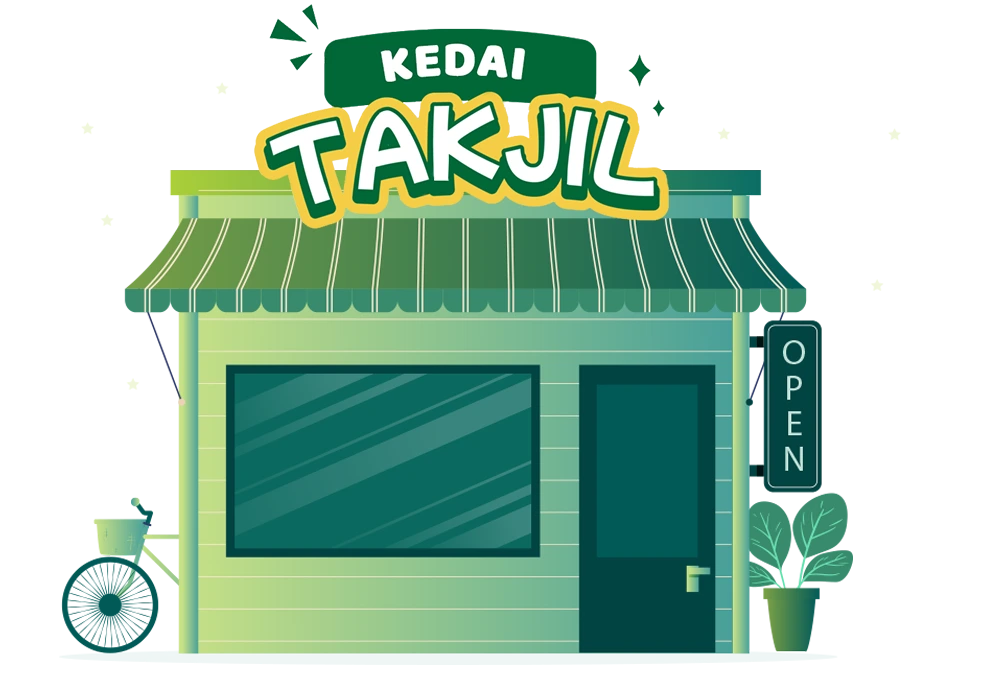
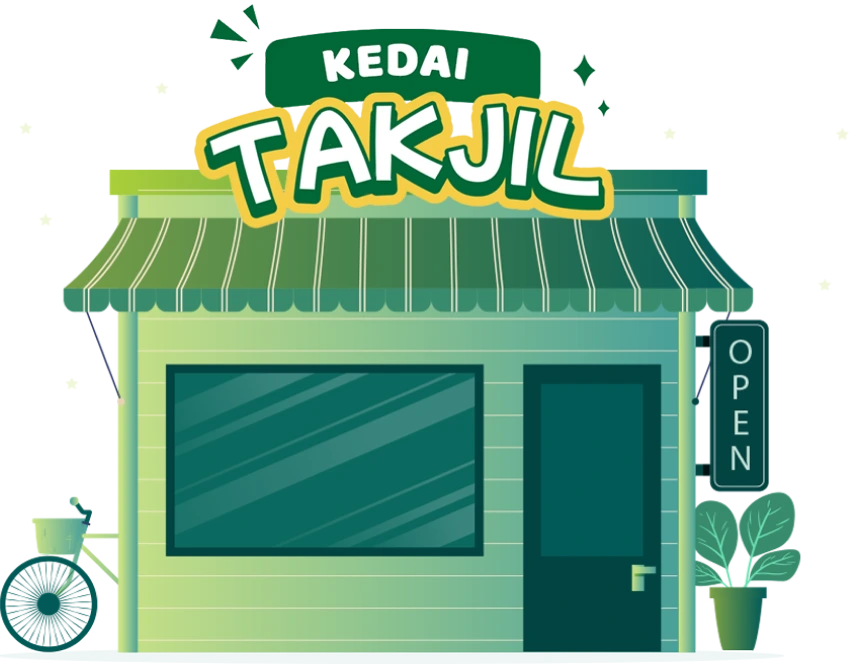
Add ShopBackground and ContactBackground components; update AboutSection and ContactSection for improved layout and functionality

diff --git a/src/sections/ContactSection.jsx b/src/sections/ContactSection.jsx
@@ -1,5 +1,4 @@
 import SectionTitle from "../components/home/SectionTitle";
-import shopImg from "../assets/images/home/contact_person_img.webp";
 import emailIcon from "../assets/icons/home/contact_email_icon.webp";
 import whatsappIcon from "../assets/icons/home/contact_whatsapp_icon.webp";
 import instagramIcon from "../assets/icons/home/contact_instagram_icon.webp";
@@ -8,6 +7,7 @@ import twitterIcon from "../assets/icons/home/contact_twitter_icon.webp";
 import { motion } from "framer-motion";
 import ContactChat from "../components/home/contact/ContactChat";
 import ContactSosialMedia from "../components/home/contact/ContactSosialMedia";
+import ContactBackground from "../components/home/contact/ContactBackground";
 
 const ContactChatData = [
   {
@@ -40,59 +40,53 @@ const ContactSection = () => {
   return (
     <section
       id="contact"
-      className="scroll-mt-16 bg-[var(--background-white)] px-8 py-12 md:pt-12 md:pb-0 overflow-hidden"
+      className="scroll-mt-16 bg-[var(--background-white)] px-8 py-12  md:pt-12 md:pb-0 overflow-hidden"
     >
       <SectionTitle label="Hubungi Kami" color="primary" />
-      <div className="w-full h-full flex flex-col-reverse md:flex-row justify-center items-center px-4 gap-8 xl:gap-15">
-        <div className="w-[60vw] md:w-[50vw] xl:w-[40vw] max-w-lg xl:max-w-6xl">
-          <motion.img
-            initial={{ opacity: 0, x: -100 }}
+      <div className="w-full h-full flex justify-center items-center  md:pt-8">
+        <div className="w-fit h-full flex flex-col-reverse md:flex-row justify-between items-end gap-8 md:gap-12 lg:gap-8">
+          <ContactBackground />
+          <motion.div
+            initial={{ opacity: 0, x: 100 }}
             whileInView={{ opacity: 1, x: 0 }}
             transition={{ duration: 0.8, ease: "easeInOut" }}
             viewport={{ once: true, amount: 0.3 }}
-            src={shopImg}
-            alt="about_shop"
-            className="w-full select-none"
-          />
-        </div>
-        <motion.div
-          initial={{ opacity: 0, x: 100 }}
-          whileInView={{ opacity: 1, x: 0 }}
-          transition={{ duration: 0.8, ease: "easeInOut" }}
-          viewport={{ once: true, amount: 0.3 }}
-          className="w-full md:w-2/5 h-fit flex flex-col justify-center items-center gap-4
-           md:items-start mb-5 md:mb-0 md:gap-10 "
-        >
-          <div className="w-full flex flex-col gap-4">
-            <p className="text-xs md:text-lg text-center md:text-left font-regular mb-4">
-              Anda bisa menghubungi kami melalui:
-            </p>
-            {ContactChatData.map((item, index) => (
-              <ContactChat
-                key={index}
-                img={item.img}
-                label={item.label}
-                info={item.info}
-                value={item.value}
-              />
-            ))}
-          </div>
+            className="w-full md:w-2/5 h-full flex flex-col justify-center items-center self-center gap-4
+          md:items-start mb-5 md:mb-0 md:gap-10 "
+          >
+            <div className="xl:my-8">
+              <div className="w-fit flex flex-col gap-4">
+                <p className="text-xs md:text-lg text-center md:text-left font-regular mb-4">
+                  Anda bisa menghubungi kami melalui:
+                </p>
+                {ContactChatData.map((item, index) => (
+                  <ContactChat
+                    key={index}
+                    img={item.img}
+                    label={item.label}
+                    info={item.info}
+                    value={item.value}
+                  />
+                ))}
+              </div>
 
-          <div className="w-full flex flex-col md:gap-4">
-            <h2 className="text-md md:text-2xl font-bold text-gray-600">
-              Ikuti Kami
-            </h2>
-            <div className="h-auto flex  flex-row justify-start items-start xl:items-center gap-6">
-              {ContactSosialMediaData.map((item, index) => (
-                <ContactSosialMedia
-                  key={index}
-                  img={item.img}
-                  label={item.label}
-                />
-              ))}
+              <div className="w-fit flex flex-col md:gap-4">
+                <h2 className="text-md md:text-2xl font-bold text-gray-600">
+                  Ikuti Kami
+                </h2>
+                <div className="h-auto flex flex-row justify-start items-start xl:items-center gap-6">
+                  {ContactSosialMediaData.map((item, index) => (
+                    <ContactSosialMedia
+                      key={index}
+                      img={item.img}
+                      label={item.label}
+                    />
+                  ))}
+                </div>
+              </div>
             </div>
-          </div>
-        </motion.div>
+          </motion.div>
+        </div>
       </div>
     </section>
   );

diff --git a/src/sections/AboutSection.jsx b/src/sections/AboutSection.jsx
@@ -2,49 +2,50 @@ import cloudImg from "../assets/images/home/about_cloud_img.webp";
 
 import { motion } from "framer-motion";
 import SectionTitle from "../components/home/SectionTitle";
-import ShopBackground from "../components/home/about/ShopBackground";
+import AboutBackground from "../components/home/about/AboutBackground";
 
 const AboutSection = () => {
   return (
     <section
       id="about"
-      className="2xl:min-h-screen scroll-mt-16 bg-[var(--color-primary)] px-8 py-12 md:pt-8 md:pb-12 xl:pt-10 overflow-hidden"
+      className="scroll-mt-16 bg-[var(--color-primary)] px-8 py-12 md:pt-8 md:pb-12 xl:pt-10 overflow-hidden"
     >
       <SectionTitle label="Tentang Kami" color="white" />
+      <div className="w-full h-full flex justify-center items-center md:py-12  ">
+        <div className="w-fit h-full flex flex-col-reverse md:flex-row justify-between items-center gap-8 md:gap-10 lg:gap-16 ">
+          <AboutBackground />
 
-      <div className="w-full h-full flex flex-col-reverse md:flex-row justify-start items-center px-6 md:p-8 ">
-        <ShopBackground />
-
-        <motion.div
-          initial={{ opacity: 0, x: 100 }}
-          whileInView={{ opacity: 1, x: 0 }}
-          transition={{ duration: 0.8, ease: "easeInOut" }}
-          viewport={{ once: true, amount: 0.3 }}
-          className="flex flex-col justify-center items-center md:items-start text-start mb-10 md:mb-0 gap-4 md:gap-8 "
-        >
-          <img
-            src={cloudImg}
-            alt="about_cloud"
-            className=" w-18 md:w-24 xl:w-38 select-none"
-          />
-          <div className="max-w-lg flex flex-col gap-4 text-white text-center md:text-left ">
-            <h2 className="text-xl md:text-2xl xl:text-3xl font-bold md:pb-4 text-white ">
-              Kedai Takjil
-            </h2>
-            <div className="text-xs md:text-sm flex flex-col gap-4">
-              <p>
-                Kedai takjil merupakan tempat yang sangat pas untuk anda yang
-                kangen atau sedang ingin merasakan minuman yang selalu hadir
-                pada bulan Ramadhan.
-              </p>
-              <p>
-                Kedai takjil merupakan tempat yang sangat pas untuk anda yang
-                kangen atau sedang ingin merasakan minuman yang selalu hadir
-                pada bulan Ramadhan.
-              </p>
+          <motion.div
+            initial={{ opacity: 0, x: 100 }}
+            whileInView={{ opacity: 1, x: 0 }}
+            transition={{ duration: 0.8, ease: "easeInOut" }}
+            viewport={{ once: true, amount: 0.3 }}
+            className="flex flex-col justify-center items-center md:items-start text-start mb-10 md:mb-0 gap-4 md:gap-8 "
+          >
+            <img
+              src={cloudImg}
+              alt="about_cloud"
+              className=" w-18 md:w-24 xl:w-38 select-none"
+            />
+            <div className="max-w-lg flex flex-col gap-4 text-white text-center md:text-left ">
+              <h2 className="text-xl md:text-2xl xl:text-3xl font-bold md:pb-4 text-white ">
+                Kedai Takjil
+              </h2>
+              <div className="flex flex-col gap-4">
+                <p className="text-xs md:text-sm xl:text-lg">
+                  Kedai takjil merupakan tempat yang sangat pas untuk anda yang
+                  kangen atau sedang ingin merasakan minuman yang selalu hadir
+                  pada bulan Ramadhan.
+                </p>
+                <p className="text-xs md:text-sm xl:text-lg">
+                  Kedai takjil merupakan tempat yang sangat pas untuk anda yang
+                  kangen atau sedang ingin merasakan minuman yang selalu hadir
+                  pada bulan Ramadhan.
+                </p>
+              </div>
             </div>
-          </div>
-        </motion.div>
+          </motion.div>
+        </div>
       </div>
     </section>
   );

diff --git a/src/components/home/contact/ContactChat.jsx b/src/components/home/contact/ContactChat.jsx
@@ -2,11 +2,11 @@ function ContactChat({ img, label, info, value }) {
   return (
     <>
       <div className="h-26 md:h-32 xl:h-40 flex justify-start items-center gap-2">
-        <div className="w-8 md:w-12 xl:w-18 h-full flex justify-start items-start gap-2 ">
+        <div className="w-8 md:w-12 xl:w-14 h-full flex justify-start items-start gap-2 ">
           <img src={img} alt={label} className="h-auto" />
         </div>
         <div className="w-full h-full flex flex-col justify-start items-start gap-2 ">
-          <h2 className="text-md md:text-lg xl:text-xl font-bold py-0 md:py-2 xl:py-4 text-gray-600 ">
+          <h2 className="text-md md:text-lg xl:text-xl font-bold py-0 md:py-2 text-gray-600 ">
             {label}
           </h2>
           <p className="font-regular text-xs md:text-md xl:text-lg">{info}</p>

diff --git a/src/pages/Home.jsx b/src/pages/Home.jsx
@@ -1,14 +1,10 @@
 import { useEffect } from "react";
-import { useCart } from "../context/CartContext";
-import PopupCart from "../components/cart/PopupCart";
 import HeroSection from "../sections/HeroSection";
 import ProductSection from "../sections/ProductSection";
 import AboutSection from "../sections/AboutSection";
 import ContactSection from "../sections/ContactSection";
 
 const Home = () => {
-  const { showPopup, setShowPopup } = useCart();
-
   useEffect(() => {
     if (window.location.hash) {
       const id = window.location.hash.replace("#", "");
@@ -24,8 +20,6 @@ const Home = () => {
       <ProductSection />
       <AboutSection />
       <ContactSection />
-
-      <PopupCart show={showPopup} onClose={() => setShowPopup(false)} />
     </div>
   );
 };

diff --git a/src/components/home/contact/ContactBackground.jsx b/src/components/home/contact/ContactBackground.jsx
@@ -1,0 +1,20 @@
+import { motion } from "framer-motion";
+import personImg from "../../../assets/images/home/contact_person_img.webp";
+
+function ContactBackground() {
+  return (
+    <div className=" w-[60vw] md:w-[45vw] xl:w-[38vw] max-w-lg xl:max-w-6xl">
+      <motion.img
+        initial={{ opacity: 0, x: -100 }}
+        whileInView={{ opacity: 1, x: 0 }}
+        transition={{ duration: 0.8, ease: "easeInOut" }}
+        viewport={{ once: true, amount: 0.3 }}
+        src={personImg}
+        alt="about_shop"
+        className="w-full select-none"
+      />
+    </div>
+  );
+}
+
+export default ContactBackground;

diff --git a/src/components/home/about/AboutBackground.jsx b/src/components/home/about/AboutBackground.jsx
@@ -4,7 +4,7 @@ import shopImg from "../../../assets/images/home/about_shop_img.webp";
 function ShopBackground() {
   return (
     <>
-      <div className="w-[60vw] md:w-[75vw] lg:w-[50vw] max-w-7xl ">
+      <div className="w-[60vw] md:w-[65vw] lg:w-[40vw] max-w-7xl ">
         <motion.img
           initial={{ opacity: 0, x: -100 }}
           whileInView={{ opacity: 1, x: 0 }}
